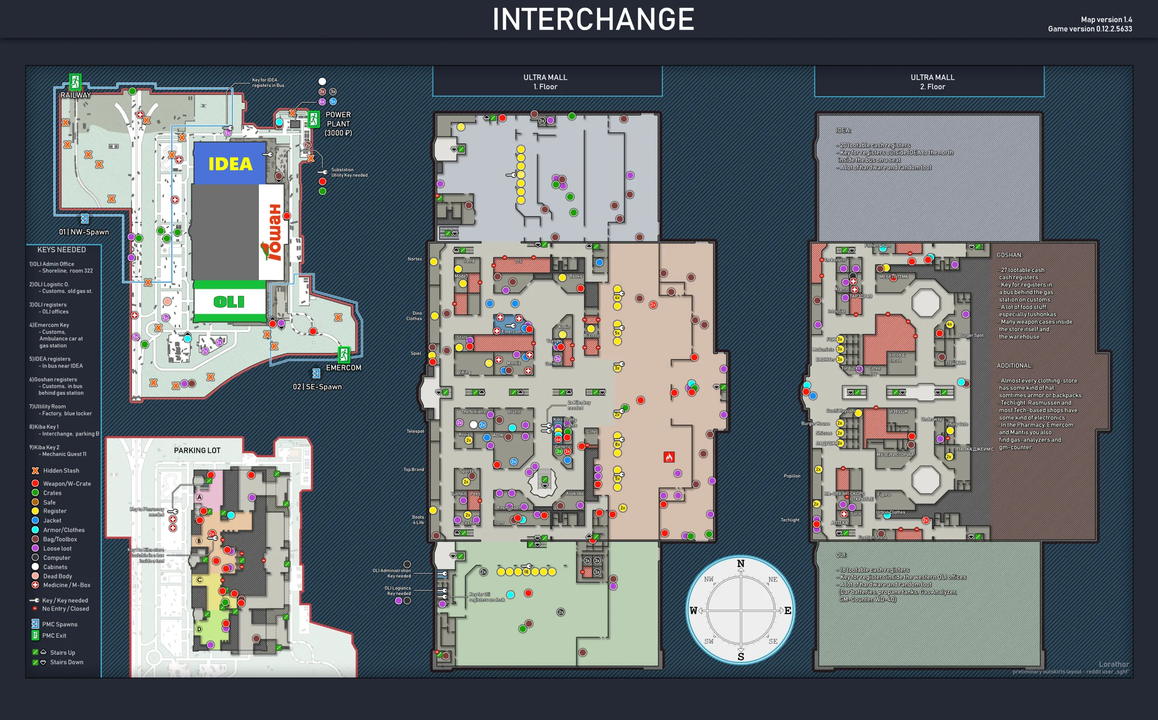
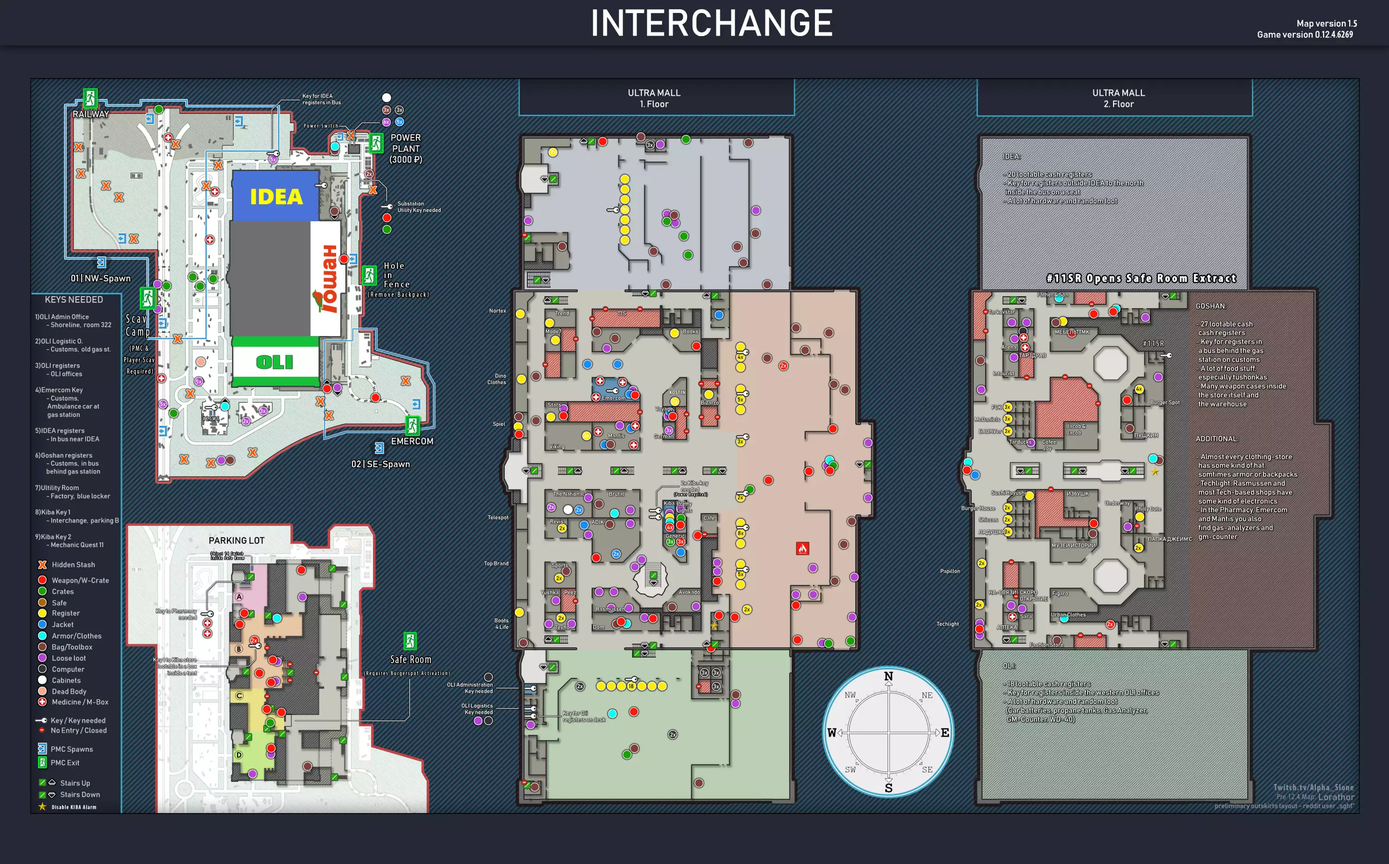
Update interchange map and extracts

diff --git a/store/mapData/InterchangeMain.js b/store/mapData/InterchangeMain.js
@@ -20,7 +20,7 @@ const mapData = {
       },
       faction: "all",
       specialConditions: null,
-      coords: { x: 166, y: 188 }
+      coords: {x: 195, y: 217}
     },
     {
       id: "ext-2",
@@ -30,7 +30,7 @@ const mapData = {
       },
       faction: "all",
       specialConditions: null,
-      coords: { x: 747, y: 777 }
+      coords:  {x: 895, y: 925}
     },
     {
       id: "ext-3",
@@ -43,8 +43,48 @@ const mapData = {
         en: "??? 3000 Rub, 1 time use",
         ru: "??? 3000 руб, одноразовый"
       },
-      coords: { x: 683, y: 262 }
-    }
+      coords: {x: 817, y: 310}
+    },
+    {
+      id: "ext-4",
+      names: {
+        en: "Hole in fence",
+        ru: "Дыра в заборе"
+      },
+      faction: "pmc",
+      specialConditions: {
+        en: "??? only without a backpack",
+        ru: "??? только без рюкзака"
+      },
+      coords: {x: 792, y: 606}
+    },
+    {
+      id: "ext-5",
+      names: {
+        en: "Scav camp",
+        ru: "Лагерь диких"
+      },
+      faction: "all",
+      specialConditions: {
+        en: "??? you need to be a scav + pmc team to extract",
+        ru: "??? нужна пара ЧВК + Дикий чтобы выйти"
+      },
+      coords: {x: 335, y: 642}
+    },
+    {
+      id: "ext-6",
+      names: {
+        en: "Saferoom Exfil",
+        ru: "Безопасная комната"
+      },
+      faction: "pmc",
+      specialConditions: {
+        en: "??? pull the lever at the power plant + flush a toilet at Burger Spot + swipe card #11SR",
+        ru: "??? нажать рычаг на электростанции + смыть унитаз в Burger Spot + провесит картой #11SR"
+      },
+      coords: {x: 641, y: 1558},
+      activationCoords: {x: 2502, y: 772}
+    },
   ]
 };
 
